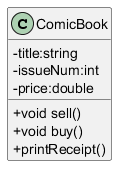
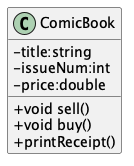
Automated update from skimpy-csharp-dev on 2025-04-10 20:28:56

Changed region(s): [[0.0484, 0.0301, 0.9194, 0.9337]]

diff --git a/_liner_notes.html b/_liner_notes.html
@@ -62,9 +62,6 @@
 <ul class="sectlevel2">
 <li><a href="_liner_notes.html#getting-started-chapter">Getting Started Chapter</a>
 </li>
-<<<<<<< HEAD:_stuff_thats_tacked_on_the_end.html
-<li><a href="_stuff_thats_tacked_on_the_end.html#_b_sides_and_deep_cuts">B-Sides and Deep Cuts</a>
-=======
 <li><a href="_liner_notes.html#computers-and-coding">1. Computers and Coding</a>
 </li>
 <li><a href="_liner_notes.html#variables-and-data-types">2. Variables and Data Types</a>
@@ -84,7 +81,6 @@
 <li><a href="_liner_notes.html#software-development-live-cycle">9. Software Development Life Cycle</a>
 </li>
 <li><a href="_liner_notes.html#graphical-user-interfaces">10. Graphical User Interfaces</a>
->>>>>>> 8e13c81 (Automated update from skimpy-csharp-dev on 2025-04-10 20:26:43):_liner_notes.html
 </li>
 </ul>
 </li>
@@ -280,38 +276,6 @@ These aren&#8217;t meant to be comprehensive answers, just a little information 
 </div>
 </div>
 <div class="sect2">
-<<<<<<< HEAD:_stuff_thats_tacked_on_the_end.html
-<h3 id="_b_sides_and_deep_cuts">B-Sides and Deep Cuts</h3>
-<div class="paragraph subtitle">
-<p>WTF is a B-side? A deep cut?</p>
-</div>
-<div class="paragraph">
-<p>In the days when we all got our music on vinyl, a single had two songs: the <strong>A-side</strong> was the hit everyone knew, and the <strong>B-side</strong> was a lesser-known track — sometimes a surprise gem, like "Revolution" on the b-side of "Hey Jude."
-And on a full album, a <strong>deep cut</strong> is a song buried deep in an album that wasn&#8217;t a radio single but still totally worth hearing.
-Try "Loving Cup", which is smack dab in the middle of <em>Exile on Main St.</em></p>
-</div>
-<div class="paragraph">
-<p>This section is like that: cool stuff that isn&#8217;t front and center in the course, but might just become one of your favorite discoveries.
-I like the C# language a lot, and there are a ton of cool features that I don&#8217;t get into because I know many of my students don&#8217;t need a bunch of extra stuff thrown at them.
-So this is where I can put some of that stuff.</p>
-</div>
-<div class="sect3">
-<h4 id="_optional_arguments_b_side_to_chapter_3_methods">Optional Arguments (B-Side to Chapter 3 - <a href="_methods.html">Methods</a>)</h4>
-<div class="paragraph">
-<p>C# allows us to specify that some arguments are optional.
-By default (the way we&#8217;ve defined parameters so far), a method call must provide a value for each parameter in the method.
-However, you can also assign a default value to a parameter; that makes it optional.</p>
-</div>
-<div class="listingblock">
-<div class="title">Example A1 - <a href="https://github.com/timmcmichael/EMCCTimFiles/tree/main/Intro%20to%20C-Sharp%20(CIS162AD)/Appendices/OptionalArgument.cs"><code>OptionalArgument.cs</code></a>. A method with an optional argument.</div>
-<div class="content">
-<pre class="pygments highlight" style="background: #272822; color: #f8f8f2"><code data-lang="csharp"><div class="lineno"><table class="linenotable"><tr><td class="linenos"><div class="linenodiv"><pre><span style="color: inherit; background-color: transparent; padding-left: 5px; padding-right: 5px;">1</span>
-<span style="color: inherit; background-color: transparent; padding-left: 5px; padding-right: 5px;">2</span>
-<span style="color: inherit; background-color: transparent; padding-left: 5px; padding-right: 5px;">3</span></pre></div></td><td class="code"><div><pre style="line-height: 125%;"><span></span><span style="color: #66d9ef">public</span><span style="color: #f8f8f2"> </span><span style="color: #66d9ef">static</span><span style="color: #f8f8f2"> </span><span style="color: #66d9ef">double</span><span style="color: #f8f8f2"> </span><span style="color: #a6e22e">TotalBill</span><span style="color: #f8f8f2">(</span><span style="color: #66d9ef">double</span><span style="color: #f8f8f2"> meal, </span><span style="color: #66d9ef">double</span><span style="color: #f8f8f2"> tipPercentage </span><span style="color: #ff4689">=</span><span style="color: #f8f8f2"> </span><span style="color: #ae81ff">20.0</span><span style="color: #f8f8f2">) {</span>
-<span style="color: #f8f8f2">   </span><span style="color: #66d9ef">return</span><span style="color: #f8f8f2"> meal </span><span style="color: #ff4689">+</span><span style="color: #f8f8f2"> (meal </span><span style="color: #ff4689">*</span><span style="color: #f8f8f2"> tipPercentage</span><span style="color: #ff4689">/</span><span style="color: #ae81ff">100</span><span style="color: #f8f8f2">);</span>
-<span style="color: #f8f8f2">}</span>
-</pre></div></td></tr></table></div></code></pre>
-=======
 <h3 id="decisions">4. Decisions</h3>
 <div class="qlist qanda">
 <ol>
@@ -320,7 +284,6 @@ However, you can also assign a default value to a parameter; that makes it optio
 <p>Answer</p>
 </li>
 </ol>
->>>>>>> 8e13c81 (Automated update from skimpy-csharp-dev on 2025-04-10 20:26:43):_liner_notes.html
 </div>
 </div>
 <div class="sect2">
@@ -334,69 +297,6 @@ However, you can also assign a default value to a parameter; that makes it optio
 </ol>
 </div>
 </div>
-<<<<<<< HEAD:_stuff_thats_tacked_on_the_end.html
-<div class="admonitionblock important">
-<table>
-<tr>
-<td class="icon">
-<i class="fa icon-important" title="Important"></i>
-</td>
-<td class="content">
-If you use optional parameters, they must be at the end of the parameter list. In other words, in the example above, I couldn&#8217;t have the optional <code>tipPercentage</code> before <code>meal</code>.
-</td>
-</tr>
-</table>
-</div>
-<div class="paragraph">
-<p>Learn more about optional parameters in the official Microsoft documentation: <a href="https://learn.microsoft.com/en-us/dotnet/csharp/programming-guide/classes-and-structs/named-and-optional-arguments#optional-arguments" target="_blank" rel="noopener">Optional Arguments (C# Programming Guide)</a></p>
-</div>
-</div>
-<div class="sect3">
-<h4 id="_named_arguments_b_side_to_chapter_3_methods">Named Arguments (B-Side to Chapter 3 - <a href="_methods.html">Methods</a>)</h4>
-<div class="paragraph">
-<p>Another nice C# feature related methods is named arguments.
-Named arguments allow you to specify the name of the parameter you&#8217;re providing a value for, so you can list the arguments in any order. Simply put the name of the parameter followed by a colon and the value you want to assign to it.</p>
-</div>
-<div class="paragraph">
-<p>It means you don&#8217;t have to remember the order of the parameters in the method as long as you remember the names.</p>
-</div>
-<div class="listingblock">
-<div class="title">Example A2 - <a href="https://github.com/timmcmichael/EMCCTimFiles/tree/main/Intro%20to%20C-Sharp%20(CIS162AD)/Appendices/NamedArguments.cs"><code>NamedArguments.cs</code></a>. A method call using named arguments.</div>
-<div class="content">
-<pre class="pygments highlight" style="background: #272822; color: #f8f8f2"><code data-lang="csharp"><div class="lineno"><table class="linenotable"><tr><td class="linenos"><div class="linenodiv"><pre><span style="color: inherit; background-color: transparent; padding-left: 5px; padding-right: 5px;"> 1</span>
-<span style="color: inherit; background-color: transparent; padding-left: 5px; padding-right: 5px;"> 2</span>
-<span style="color: inherit; background-color: transparent; padding-left: 5px; padding-right: 5px;"> 3</span>
-<span style="color: inherit; background-color: transparent; padding-left: 5px; padding-right: 5px;"> 4</span>
-<span style="color: inherit; background-color: transparent; padding-left: 5px; padding-right: 5px;"> 5</span>
-<span style="color: inherit; background-color: transparent; padding-left: 5px; padding-right: 5px;"> 6</span>
-<span style="color: inherit; background-color: transparent; padding-left: 5px; padding-right: 5px;"> 7</span>
-<span style="color: inherit; background-color: transparent; padding-left: 5px; padding-right: 5px;"> 8</span>
-<span style="color: inherit; background-color: transparent; padding-left: 5px; padding-right: 5px;"> 9</span>
-<span style="color: inherit; background-color: transparent; padding-left: 5px; padding-right: 5px;">10</span>
-<span style="color: inherit; background-color: transparent; padding-left: 5px; padding-right: 5px;">11</span>
-<span style="color: inherit; background-color: transparent; padding-left: 5px; padding-right: 5px;">12</span>
-<span style="color: inherit; background-color: transparent; padding-left: 5px; padding-right: 5px;">13</span>
-<span style="color: inherit; background-color: transparent; padding-left: 5px; padding-right: 5px;">14</span></pre></div></td><td class="code"><div><pre style="line-height: 125%;"><span></span><span style="color: #66d9ef">public</span><span style="color: #f8f8f2"> </span><span style="color: #66d9ef">class</span><span style="color: #f8f8f2"> </span><span style="color: #a6e22e">NamedArguments</span>
-<span style="color: #f8f8f2">{</span>
-<span style="color: #f8f8f2">    </span><span style="color: #66d9ef">public</span><span style="color: #f8f8f2"> </span><span style="color: #66d9ef">static</span><span style="color: #f8f8f2"> </span><span style="color: #66d9ef">void</span><span style="color: #f8f8f2"> </span><span style="color: #a6e22e">Main</span><span style="color: #f8f8f2">()</span>
-<span style="color: #f8f8f2">    {</span>
-<span style="color: #f8f8f2">        </span><span style="color: #66d9ef">double</span><span style="color: #f8f8f2"> amount </span><span style="color: #ff4689">=</span><span style="color: #f8f8f2"> TotalBill(tipPercentage: </span><span style="color: #ae81ff">18.0</span><span style="color: #f8f8f2">, tax: </span><span style="color: #ae81ff">1.0</span><span style="color: #f8f8f2">, meal: </span><span style="color: #ae81ff">100.0</span><span style="color: #f8f8f2">);</span>
-<span style="color: #f8f8f2">        Console.WriteLine(amount);</span>
-
-<span style="color: #f8f8f2">        </span><span style="color: #66d9ef">static</span><span style="color: #f8f8f2"> </span><span style="color: #66d9ef">double</span><span style="color: #f8f8f2"> </span><span style="color: #a6e22e">TotalBill</span><span style="color: #f8f8f2">(</span><span style="color: #66d9ef">double</span><span style="color: #f8f8f2"> meal, </span><span style="color: #66d9ef">double</span><span style="color: #f8f8f2"> tax, </span><span style="color: #66d9ef">double</span><span style="color: #f8f8f2"> tipPercentage)</span>
-<span style="color: #f8f8f2">        {</span>
-<span style="color: #f8f8f2">            </span><span style="color: #66d9ef">return</span><span style="color: #f8f8f2"> meal </span><span style="color: #ff4689">+</span><span style="color: #f8f8f2"> (meal </span><span style="color: #ff4689">*</span><span style="color: #f8f8f2"> tax </span><span style="color: #ff4689">/</span><span style="color: #f8f8f2"> </span><span style="color: #ae81ff">100</span><span style="color: #f8f8f2">) </span><span style="color: #ff4689">+</span><span style="color: #f8f8f2"> (meal </span><span style="color: #ff4689">*</span><span style="color: #f8f8f2"> tipPercentage </span><span style="color: #ff4689">/</span><span style="color: #f8f8f2"> </span><span style="color: #ae81ff">100</span><span style="color: #f8f8f2">);</span>
-<span style="color: #f8f8f2">        }</span>
-
-<span style="color: #f8f8f2">    }</span>
-<span style="color: #f8f8f2">}</span>
-</pre></div></td></tr></table></div></code></pre>
-</div>
-</div>
-<div class="paragraph">
-<p>Learn more about named arguments in the official Microsoft documentation: <a href="https://learn.microsoft.com/en-us/dotnet/csharp/programming-guide/classes-and-structs/named-and-optional-arguments#named-arguments" target="_blank" rel="noopener">Named Arguments (C# Programming Guide)</a></p>
-</div>
-=======
 <div class="sect2">
 <h3 id="debugging-and-generative-ai">6. Debugging and Generative AI</h3>
 <div class="qlist qanda">
@@ -450,7 +350,6 @@ Named arguments allow you to specify the name of the parameter you&#8217;re prov
 <p>Answer</p>
 </li>
 </ol>
->>>>>>> 8e13c81 (Automated update from skimpy-csharp-dev on 2025-04-10 20:26:43):_liner_notes.html
 </div>
 </div>
 </div>
@@ -461,11 +360,7 @@ Named arguments allow you to specify the name of the parameter you&#8217;re prov
 </div>
 <div id="footer">
     <div id="footer-text">
-<<<<<<< HEAD:_stuff_thats_tacked_on_the_end.html
-        Tripucka Edition,&nbsp;revised&nbsp;2025-04-10&nbsp;-&nbsp;10:46:58 -0700
-=======
         Quarrymen Edition,&nbsp;revised&nbsp;2025-04-10&nbsp;-&nbsp;20:25:15 -0700
->>>>>>> 8e13c81 (Automated update from skimpy-csharp-dev on 2025-04-10 20:26:43):_liner_notes.html
         <p xmlns:cc="http://creativecommons.org/ns#">This work is licensed under <a
                 href="https://creativecommons.org/licenses/by-nc-sa/4.0/?ref=chooser-v1" target="_blank"
                 rel="license noopener noreferrer" style="display:inline-block;">CC BY-NC-SA 4.0<img

diff --git a/_classes_and_objects.html b/_classes_and_objects.html
@@ -165,7 +165,7 @@ The UML standards are extensive, and we&#8217;ll be using a simplified version i
 </div>
 <div class="imageblock">
 <div class="content">
-<img src="images/chapter6/ComicBookDiagram.png" alt="ComicBookDiagram" width="124" height="173">
+<img src="images/chapter6/ComicBookDiagram.png" alt="ComicBookDiagram" width="134" height="166">
 </div>
 <div class="title">Example 6.2 - A class diagram for a restaurant order</div>
 </div>
@@ -236,7 +236,7 @@ But it&#8217;s a best practice&#8212;&#8203;and an important one&#8212;&#8203;so
 </div>
 <div class="imageblock">
 <div class="content">
-<img src="images/chapter6/PoolRecordDiagram.png" alt="PoolRecordDiagram" width="190" height="191">
+<img src="images/chapter6/PoolRecordDiagram.png" alt="PoolRecordDiagram" width="203" height="183">
 </div>
 <div class="title">Example 6.3 - Class diagram for the <code>PoolRecord</code> class</div>
 </div>
@@ -1088,11 +1088,7 @@ This would mean that every savings account would earn the same interest rate, wh
 </div>
 <div id="footer">
     <div id="footer-text">
-<<<<<<< HEAD
-        Tripucka Edition,&nbsp;revised&nbsp;2025-04-10&nbsp;-&nbsp;10:46:58 -0700
-=======
         Quarrymen Edition,&nbsp;revised&nbsp;2025-04-10&nbsp;-&nbsp;20:25:15 -0700
->>>>>>> 8e13c81 (Automated update from skimpy-csharp-dev on 2025-04-10 20:26:43)
         <p xmlns:cc="http://creativecommons.org/ns#">This work is licensed under <a
                 href="https://creativecommons.org/licenses/by-nc-sa/4.0/?ref=chooser-v1" target="_blank"
                 rel="license noopener noreferrer" style="display:inline-block;">CC BY-NC-SA 4.0<img

diff --git a/_variables_and_data_types.html b/_variables_and_data_types.html
@@ -1033,11 +1033,7 @@ The 32 in <code>ToInt32</code> is the number of bits used to store the number, a
 </div>
 <div id="footer">
     <div id="footer-text">
-<<<<<<< HEAD
-        Tripucka Edition,&nbsp;revised&nbsp;2025-04-10&nbsp;-&nbsp;10:46:58 -0700
-=======
         Quarrymen Edition,&nbsp;revised&nbsp;2025-04-10&nbsp;-&nbsp;20:25:15 -0700
->>>>>>> 8e13c81 (Automated update from skimpy-csharp-dev on 2025-04-10 20:26:43)
         <p xmlns:cc="http://creativecommons.org/ns#">This work is licensed under <a
                 href="https://creativecommons.org/licenses/by-nc-sa/4.0/?ref=chooser-v1" target="_blank"
                 rel="license noopener noreferrer" style="display:inline-block;">CC BY-NC-SA 4.0<img

diff --git a/_arrays.html b/_arrays.html
@@ -500,11 +500,7 @@ The for-each loop is optional. You can always use a traditional for loop to trav
 </div>
 <div id="footer">
     <div id="footer-text">
-<<<<<<< HEAD
-        Tripucka Edition,&nbsp;revised&nbsp;2025-04-10&nbsp;-&nbsp;10:46:58 -0700
-=======
         Quarrymen Edition,&nbsp;revised&nbsp;2025-04-10&nbsp;-&nbsp;20:25:15 -0700
->>>>>>> 8e13c81 (Automated update from skimpy-csharp-dev on 2025-04-10 20:26:43)
         <p xmlns:cc="http://creativecommons.org/ns#">This work is licensed under <a
                 href="https://creativecommons.org/licenses/by-nc-sa/4.0/?ref=chooser-v1" target="_blank"
                 rel="license noopener noreferrer" style="display:inline-block;">CC BY-NC-SA 4.0<img

diff --git a/_computers_and_coding.html b/_computers_and_coding.html
@@ -610,11 +610,7 @@ Almost all IDEs have a keyboard shortcut for commenting out code&#8212;&#8203;an
 </div>
 <div id="footer">
     <div id="footer-text">
-<<<<<<< HEAD
-        Tripucka Edition,&nbsp;revised&nbsp;2025-04-10&nbsp;-&nbsp;10:46:58 -0700
-=======
         Quarrymen Edition,&nbsp;revised&nbsp;2025-04-10&nbsp;-&nbsp;20:25:15 -0700
->>>>>>> 8e13c81 (Automated update from skimpy-csharp-dev on 2025-04-10 20:26:43)
         <p xmlns:cc="http://creativecommons.org/ns#">This work is licensed under <a
                 href="https://creativecommons.org/licenses/by-nc-sa/4.0/?ref=chooser-v1" target="_blank"
                 rel="license noopener noreferrer" style="display:inline-block;">CC BY-NC-SA 4.0<img

diff --git a/_debugging_and_generative_ai.html b/_debugging_and_generative_ai.html
@@ -442,11 +442,7 @@ It essentially acts as a very advanced code completion tool&#8212;&#8203;or like
 </div>
 <div id="footer">
     <div id="footer-text">
-<<<<<<< HEAD
-        Tripucka Edition,&nbsp;revised&nbsp;2025-04-10&nbsp;-&nbsp;10:46:58 -0700
-=======
         Quarrymen Edition,&nbsp;revised&nbsp;2025-04-10&nbsp;-&nbsp;20:25:15 -0700
->>>>>>> 8e13c81 (Automated update from skimpy-csharp-dev on 2025-04-10 20:26:43)
         <p xmlns:cc="http://creativecommons.org/ns#">This work is licensed under <a
                 href="https://creativecommons.org/licenses/by-nc-sa/4.0/?ref=chooser-v1" target="_blank"
                 rel="license noopener noreferrer" style="display:inline-block;">CC BY-NC-SA 4.0<img

diff --git a/_decisions.html b/_decisions.html
@@ -898,11 +898,7 @@ This can be useful in some situations, but it&#8217;s generally not what you wan
 </div>
 <div id="footer">
     <div id="footer-text">
-<<<<<<< HEAD
-        Tripucka Edition,&nbsp;revised&nbsp;2025-04-10&nbsp;-&nbsp;10:46:58 -0700
-=======
         Quarrymen Edition,&nbsp;revised&nbsp;2025-04-10&nbsp;-&nbsp;20:25:15 -0700
->>>>>>> 8e13c81 (Automated update from skimpy-csharp-dev on 2025-04-10 20:26:43)
         <p xmlns:cc="http://creativecommons.org/ns#">This work is licensed under <a
                 href="https://creativecommons.org/licenses/by-nc-sa/4.0/?ref=chooser-v1" target="_blank"
                 rel="license noopener noreferrer" style="display:inline-block;">CC BY-NC-SA 4.0<img

diff --git a/_getting_started.html b/_getting_started.html
@@ -460,11 +460,7 @@ If that&#8217;s not the case, email me at <a href="mailto:tim.mcmichael@estrella
 </div>
 <div id="footer">
     <div id="footer-text">
-<<<<<<< HEAD
-        Tripucka Edition,&nbsp;revised&nbsp;2025-04-10&nbsp;-&nbsp;10:46:58 -0700
-=======
         Quarrymen Edition,&nbsp;revised&nbsp;2025-04-10&nbsp;-&nbsp;20:25:15 -0700
->>>>>>> 8e13c81 (Automated update from skimpy-csharp-dev on 2025-04-10 20:26:43)
         <p xmlns:cc="http://creativecommons.org/ns#">This work is licensed under <a
                 href="https://creativecommons.org/licenses/by-nc-sa/4.0/?ref=chooser-v1" target="_blank"
                 rel="license noopener noreferrer" style="display:inline-block;">CC BY-NC-SA 4.0<img

diff --git a/_graphical_user_interfaces.html b/_graphical_user_interfaces.html
@@ -209,11 +209,7 @@ Finally, we&#8217;ll set the frame to be visible, which will cause the window to
 </div>
 <div id="footer">
     <div id="footer-text">
-<<<<<<< HEAD
-        Tripucka Edition,&nbsp;revised&nbsp;2025-04-10&nbsp;-&nbsp;10:46:58 -0700
-=======
         Quarrymen Edition,&nbsp;revised&nbsp;2025-04-10&nbsp;-&nbsp;20:25:15 -0700
->>>>>>> 8e13c81 (Automated update from skimpy-csharp-dev on 2025-04-10 20:26:43)
         <p xmlns:cc="http://creativecommons.org/ns#">This work is licensed under <a
                 href="https://creativecommons.org/licenses/by-nc-sa/4.0/?ref=chooser-v1" target="_blank"
                 rel="license noopener noreferrer" style="display:inline-block;">CC BY-NC-SA 4.0<img

diff --git a/_loops.html b/_loops.html
@@ -538,11 +538,7 @@ When the <code>continue</code> statement is executed, the program stops executin
 </div>
 <div id="footer">
     <div id="footer-text">
-<<<<<<< HEAD
-        Tripucka Edition,&nbsp;revised&nbsp;2025-04-10&nbsp;-&nbsp;10:46:58 -0700
-=======
         Quarrymen Edition,&nbsp;revised&nbsp;2025-04-10&nbsp;-&nbsp;20:25:15 -0700
->>>>>>> 8e13c81 (Automated update from skimpy-csharp-dev on 2025-04-10 20:26:43)
         <p xmlns:cc="http://creativecommons.org/ns#">This work is licensed under <a
                 href="https://creativecommons.org/licenses/by-nc-sa/4.0/?ref=chooser-v1" target="_blank"
                 rel="license noopener noreferrer" style="display:inline-block;">CC BY-NC-SA 4.0<img

diff --git a/_related_resources.html b/_related_resources.html
@@ -107,11 +107,7 @@ If you have trouble finding something (or using the GitHub site), please contact
 </div>
 <div id="footer">
     <div id="footer-text">
-<<<<<<< HEAD
-        Tripucka Edition,&nbsp;revised&nbsp;2025-04-10&nbsp;-&nbsp;10:46:58 -0700
-=======
         Quarrymen Edition,&nbsp;revised&nbsp;2025-04-10&nbsp;-&nbsp;20:25:15 -0700
->>>>>>> 8e13c81 (Automated update from skimpy-csharp-dev on 2025-04-10 20:26:43)
         <p xmlns:cc="http://creativecommons.org/ns#">This work is licensed under <a
                 href="https://creativecommons.org/licenses/by-nc-sa/4.0/?ref=chooser-v1" target="_blank"
                 rel="license noopener noreferrer" style="display:inline-block;">CC BY-NC-SA 4.0<img

diff --git a/_skimpy_preface.html b/_skimpy_preface.html
@@ -103,11 +103,7 @@ And my ulterior motive is to help you enjoy programming and experience the nerdy
 </div>
 <div id="footer">
     <div id="footer-text">
-<<<<<<< HEAD
-        Tripucka Edition,&nbsp;revised&nbsp;2025-04-10&nbsp;-&nbsp;10:46:58 -0700
-=======
         Quarrymen Edition,&nbsp;revised&nbsp;2025-04-10&nbsp;-&nbsp;20:25:15 -0700
->>>>>>> 8e13c81 (Automated update from skimpy-csharp-dev on 2025-04-10 20:26:43)
         <p xmlns:cc="http://creativecommons.org/ns#">This work is licensed under <a
                 href="https://creativecommons.org/licenses/by-nc-sa/4.0/?ref=chooser-v1" target="_blank"
                 rel="license noopener noreferrer" style="display:inline-block;">CC BY-NC-SA 4.0<img
